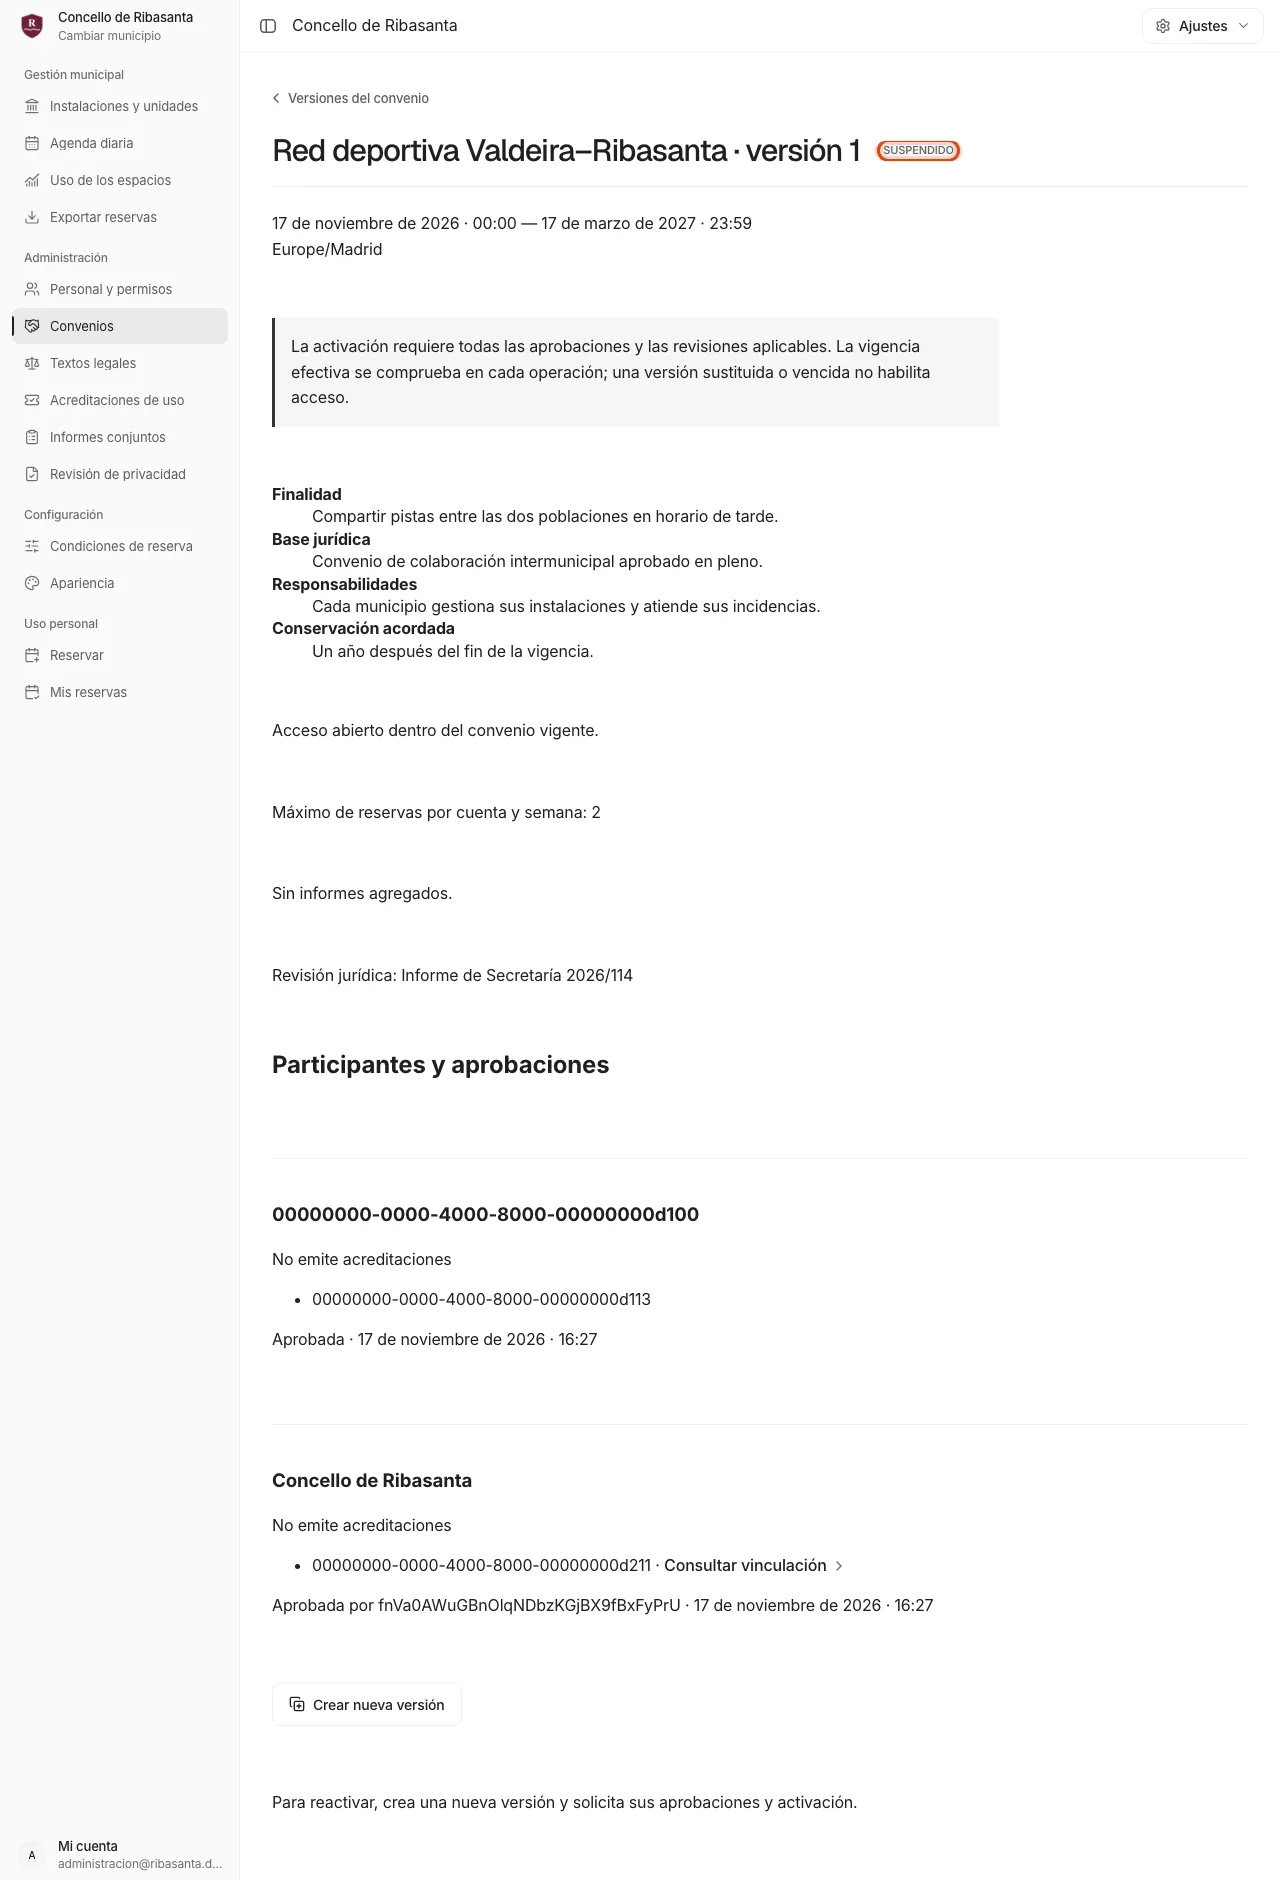
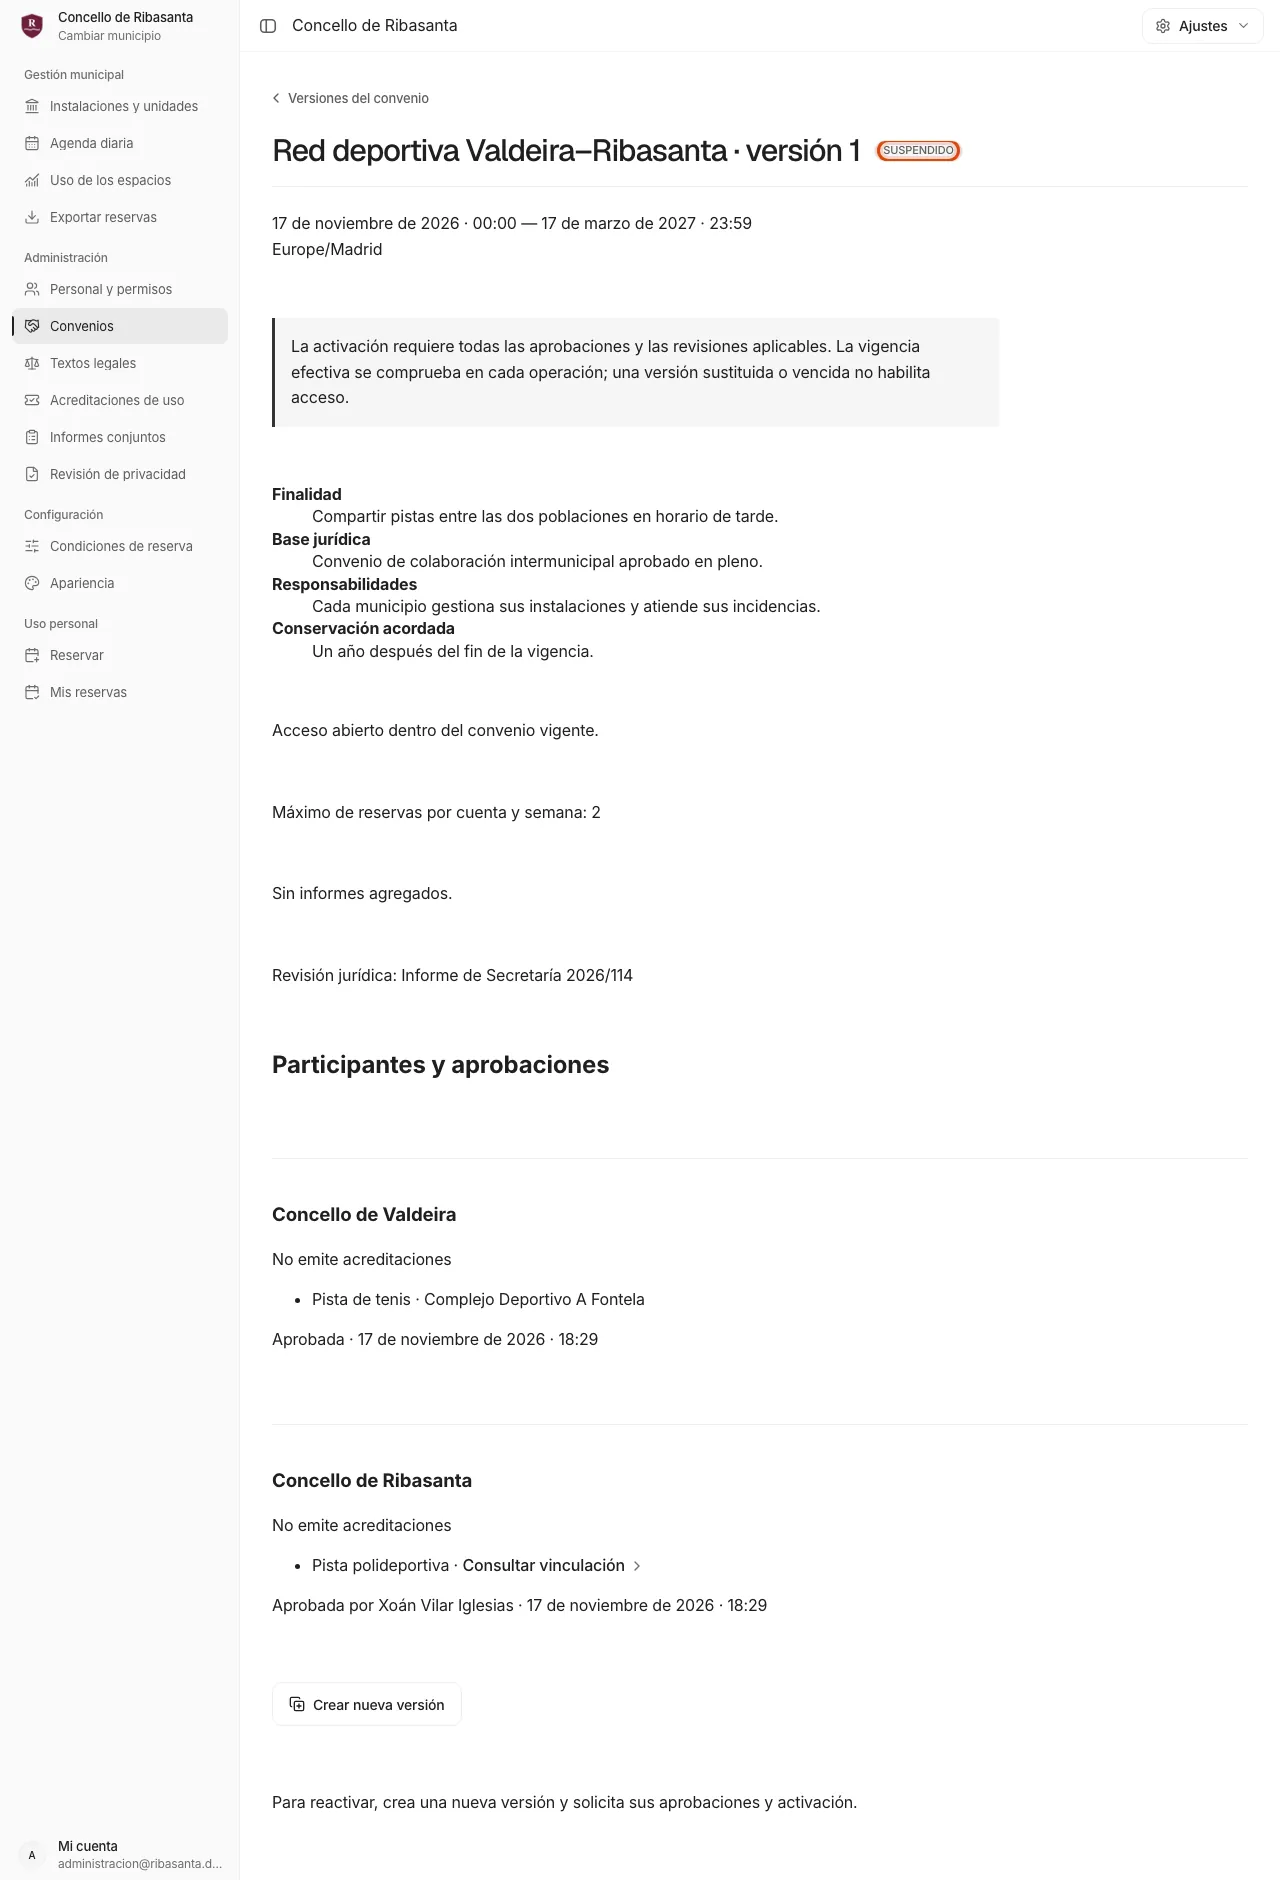
test(docs-capture): regenerate CU-10 captures with named participants and approvers

diff --git a/web/docs-capture/cu-10-convenio.spec.ts b/web/docs-capture/cu-10-convenio.spec.ts
@@ -2,6 +2,7 @@ import type { Page } from "@playwright/test";
 import { Capture, expect, signIn, test } from "./capture";
 import {
   choose,
+  freshAddress,
   localDate,
   pickDateTime,
   ribasanta,
@@ -127,6 +128,7 @@ test("CU-10 gestionar un convenio", async ({ page, browser }) => {
     await expect(theirs).toHaveCount(0);
 
     // Paso 3: con la revisión jurídica registrada, Valdeira activa la versión.
+    await freshAddress(page);
     await page.reload();
     await expect(page.getByText("APROBADO", { exact: true })).toBeVisible();
     await page
@@ -146,6 +148,8 @@ test("CU-10 gestionar un convenio", async ({ page, browser }) => {
     await snap(cu, page, "activado", { target: active });
 
     // Alternativa: un participante suspende el convenio con motivo.
+    await freshAddress(page);
+    await freshAddress(xoan);
     await xoan.reload();
     await expect(xoan.getByText("ACTIVADO", { exact: true })).toBeVisible();
     await xoan
@@ -190,6 +194,7 @@ test("CU-10 gestionar un convenio", async ({ page, browser }) => {
   }
 
   // Alternativa: reactivar exige una nueva versión con sus aprobaciones.
+  await freshAddress(page);
   await page.goto(version);
   await expect(page.getByText("SUSPENDIDO", { exact: true })).toBeVisible();
   await page.getByRole("link", { name: "Crear nueva versión" }).click();
